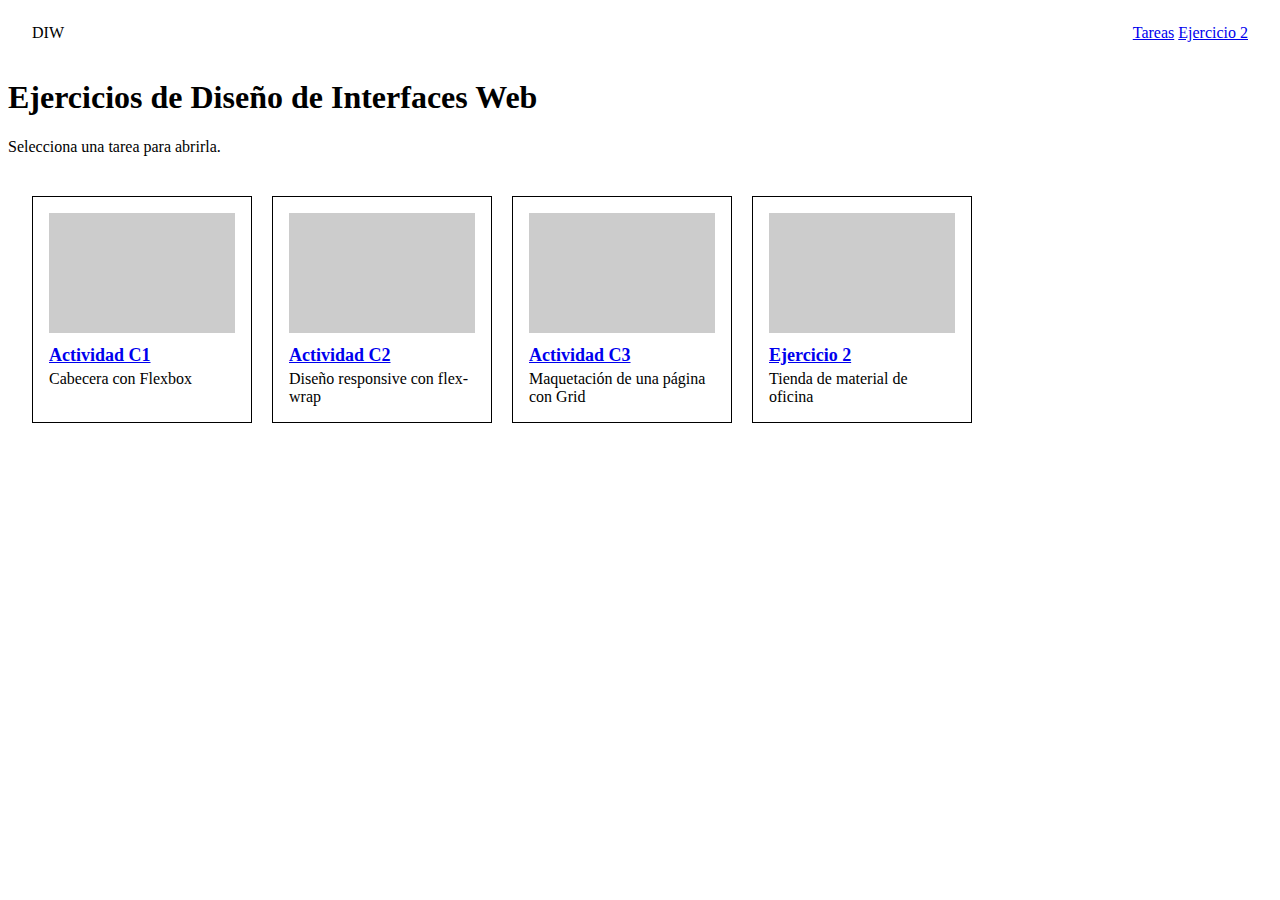
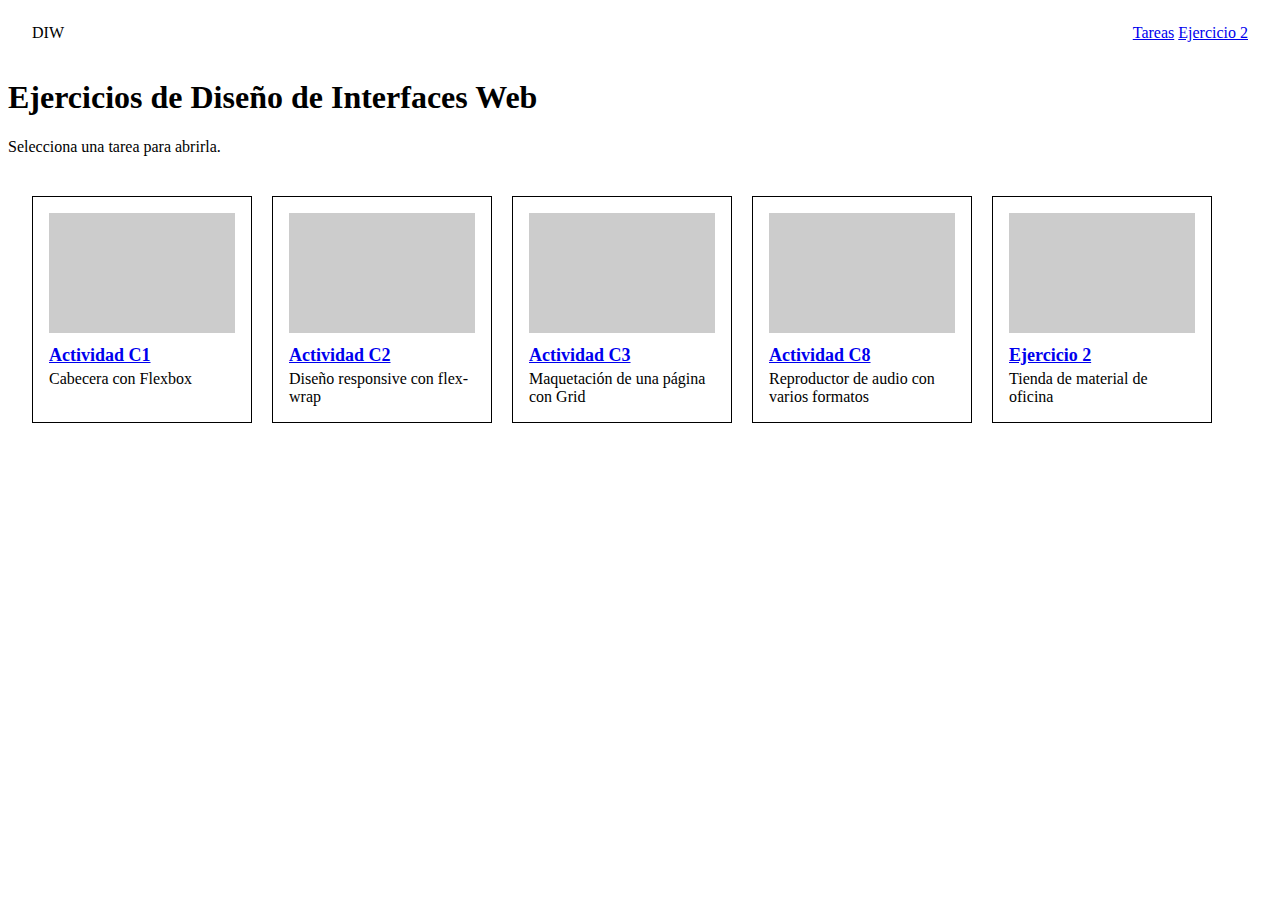
Añadir actividad C8 con reproductor de audio

Changed region(s): [[0.7812, 0.2178, 0.9375, 0.4667], [0.5938, 0.3733, 0.7188, 0.4667]]

diff --git a/ejercicios/c8-audio/index.html b/ejercicios/c8-audio/index.html
@@ -1,0 +1,72 @@
+<!DOCTYPE html>
+<html lang="es">
+<head>
+    <meta charset="UTF-8">
+    <meta name="viewport" content="width=device-width, initial-scale=1.0">
+    <title>Actividad C8 - Reproductor de audio</title>
+    <link rel="stylesheet" href="styles.css">
+</head>
+<body>
+    <div class="contenedor">
+        <header>
+            <div>
+                <h1>Tienda de material de oficina</h1>
+                <p>Todo lo que necesitas para tus ideas.</p>
+            </div>
+            <a href="../../index.html">Volver a tareas</a>
+        </header>
+
+        <aside>
+            <h2>Menú</h2>
+            <nav aria-label="Menú de la tienda">
+                <a href="#bienvenida">Bienvenida</a>
+                <a href="#catalogo">Catálogo</a>
+                <a href="#contacto">Contacto</a>
+            </nav>
+        </aside>
+
+        <main>
+            <section id="bienvenida" class="bienvenida">
+                <h2>¡Te damos la bienvenida!</h2>
+                <p>Escucha nuestro mensaje antes de descubrir el catálogo.</p>
+                <audio controls preload="metadata">
+                    <source src="audio/jingle-tienda.mp3" type="audio/mpeg">
+                    <source src="audio/jingle-tienda.ogg" type="audio/ogg">
+                    Tu navegador no admite audio HTML5. Puedes <a href="audio/jingle-tienda.mp3">descargar el mensaje de bienvenida</a>.
+                </audio>
+            </section>
+
+            <section id="catalogo">
+                <h2>Productos destacados</h2>
+                <div class="productos">
+                    <article>
+                        <h3>Cuaderno A5</h3>
+                        <p>Papel reciclado con cuadrícula de 5 mm.</p>
+                        <p>Precio: 4,50 €</p>
+                    </article>
+                    <article>
+                        <h3>Pack de bolígrafos</h3>
+                        <p>Diez bolígrafos azules de secado rápido.</p>
+                        <p>Precio: 3,20 €</p>
+                    </article>
+                    <article>
+                        <h3>Archivador de palanca</h3>
+                        <p>Formato folio, lomo ancho. Temporalmente agotado.</p>
+                        <p>Precio: 5,90 €</p>
+                    </article>
+                    <article>
+                        <h3>Grapadora de sobremesa</h3>
+                        <p>Capacidad para 25 hojas, incluye grapas.</p>
+                        <p>Precio: 7,80 €</p>
+                    </article>
+                </div>
+            </section>
+        </main>
+
+        <footer id="contacto">
+            <h2>Contacto</h2>
+            <p>Escríbenos a <a href="mailto:tienda@example.com">tienda@example.com</a>.</p>
+        </footer>
+    </div>
+</body>
+</html>

diff --git a/ejercicios/c8-audio/styles.css b/ejercicios/c8-audio/styles.css
@@ -1,0 +1,148 @@
+* {
+    box-sizing: border-box;
+}
+
+body {
+    margin: 0;
+    color: #292929;
+    font-family: Arial, sans-serif;
+    line-height: 1.5;
+}
+
+.contenedor {
+    display: grid;
+    grid-template-areas:
+        "cabecera cabecera"
+        "lateral contenido"
+        "pie pie";
+    grid-template-columns: 220px minmax(0, 1fr);
+    max-width: 1100px;
+    min-height: 100vh;
+    margin: 0 auto;
+}
+
+header {
+    grid-area: cabecera;
+    display: flex;
+    align-items: center;
+    justify-content: space-between;
+    gap: 20px;
+    padding: 18px 26px;
+    color: #fff;
+    background: #344f46;
+}
+
+header h1,
+header p,
+aside h2,
+footer h2 {
+    margin: 0;
+}
+
+header p {
+    color: #e2e9e4;
+}
+
+header a {
+    color: #fff;
+}
+
+aside {
+    grid-area: lateral;
+    padding: 24px 18px;
+    background: #f0f2ee;
+}
+
+aside nav {
+    display: grid;
+    gap: 12px;
+    margin-top: 14px;
+}
+
+aside a {
+    color: #344f46;
+}
+
+main {
+    grid-area: contenido;
+    min-width: 0;
+    padding: 24px;
+}
+
+.bienvenida {
+    margin-bottom: 28px;
+    padding: 20px;
+    background: #f5f3e9;
+}
+
+.bienvenida h2,
+.bienvenida p {
+    margin-top: 0;
+}
+
+audio {
+    display: block;
+    width: min(100%, 480px);
+    margin-top: 14px;
+}
+
+.productos {
+    display: flex;
+    flex-wrap: wrap;
+    gap: 14px;
+}
+
+.productos article {
+    flex: 1 1 190px;
+    padding: 16px;
+    border: 1px solid #d9ded9;
+}
+
+.productos h3 {
+    margin-top: 0;
+}
+
+.productos p:last-child {
+    margin-bottom: 0;
+    font-weight: bold;
+}
+
+footer {
+    grid-area: pie;
+    padding: 18px 26px;
+    color: #fff;
+    background: #344f46;
+}
+
+footer p {
+    margin-bottom: 0;
+}
+
+footer a {
+    color: #fff;
+}
+
+@media (max-width: 650px) {
+    .contenedor {
+        grid-template-areas:
+            "cabecera"
+            "lateral"
+            "contenido"
+            "pie";
+        grid-template-columns: minmax(0, 1fr);
+    }
+
+    header {
+        align-items: flex-start;
+        flex-direction: column;
+    }
+
+    aside nav {
+        display: flex;
+        flex-wrap: wrap;
+    }
+
+    main {
+        padding: 18px;
+    }
+}

diff --git a/index.html b/index.html
@@ -37,6 +37,11 @@
             </article>
             <article class="tarjeta">
                 <div class="imagen"></div>
+                <h2><a href="ejercicios/c8-audio/index.html">Actividad C8</a></h2>
+                <p>Reproductor de audio con varios formatos</p>
+            </article>
+            <article class="tarjeta">
+                <div class="imagen"></div>
                 <h2><a href="ejercicios/02-productos/index.html">Ejercicio 2</a></h2>
                 <p>Tienda de material de oficina</p>
             </article>

diff --git a/README.md b/README.md
@@ -11,6 +11,7 @@ https://altedante4-cyber.github.io/DAW-Diseno-de-Interfaz/
 - [C1 · Header con Flexbox](ejercicios/c1-flexbox/)
 - [C2 · Diseño responsive con flex-wrap](ejercicios/c2-responsive/)
 - [C3 · Página con CSS Grid](ejercicios/c3-grid/)
+- [C8 · Reproductor de audio](ejercicios/c8-audio/)
 - [Ejercicio 2 · Tienda de productos](ejercicios/02-productos/)
 
-La entrega con los enlaces y la captura está en [ENTREGA.md](ENTREGA.md).
+La entrega C7 está en [ENTREGA.md](ENTREGA.md), y la entrega C8 en [ENTREGA-C8.md](ENTREGA-C8.md).

diff --git a/ENTREGA-C8.md b/ENTREGA-C8.md
@@ -1,0 +1,8 @@
+# Entrega · Actividad C8
+
+- **Repositorio:** [DAW-Diseno-de-Interfaz](https://github.com/altedante4-cyber/DAW-Diseno-de-Interfaz)
+- **Web publicada:** [Actividad C8 · Reproductor de audio](https://altedante4-cyber.github.io/DAW-Diseno-de-Interfaz/ejercicios/c8-audio/)
+
+## Captura de la web
+
+![Captura de la actividad C8 con el reproductor de audio](ejercicios/c8-audio/captura-c8.png)
